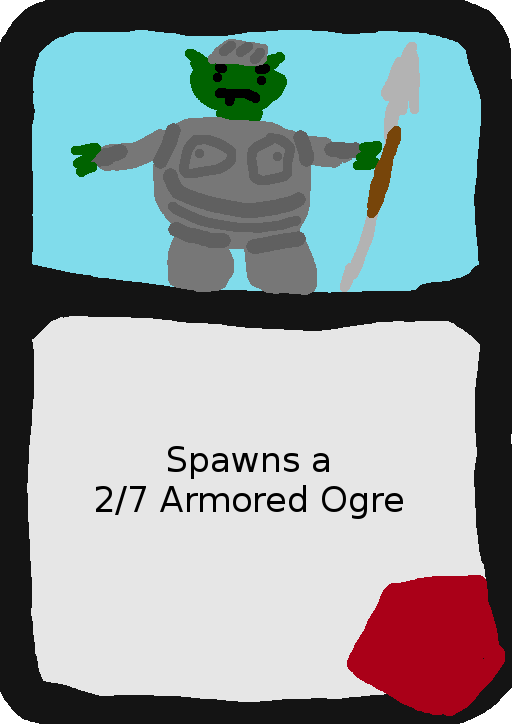
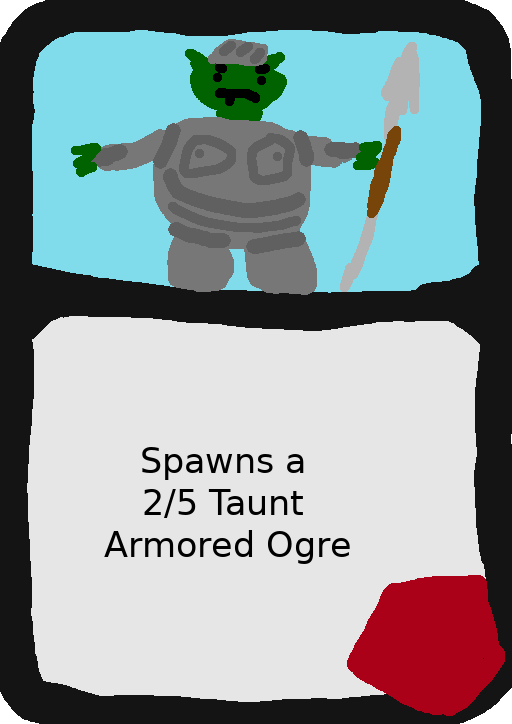
comit

Changed region(s): [[0.1875, 0.6077, 0.7812, 0.7901]]

diff --git a/src/creature/playcreatures/CreatureArmoredOgre.java b/src/creature/playcreatures/CreatureArmoredOgre.java
@@ -17,7 +17,7 @@ public class CreatureArmoredOgre extends Creature {
 			System.out.println("krinsch");
 		}
 		
-		health = 7;
+		health = 5;
 		damage = 2;
 		isTaunt = true;
 		
